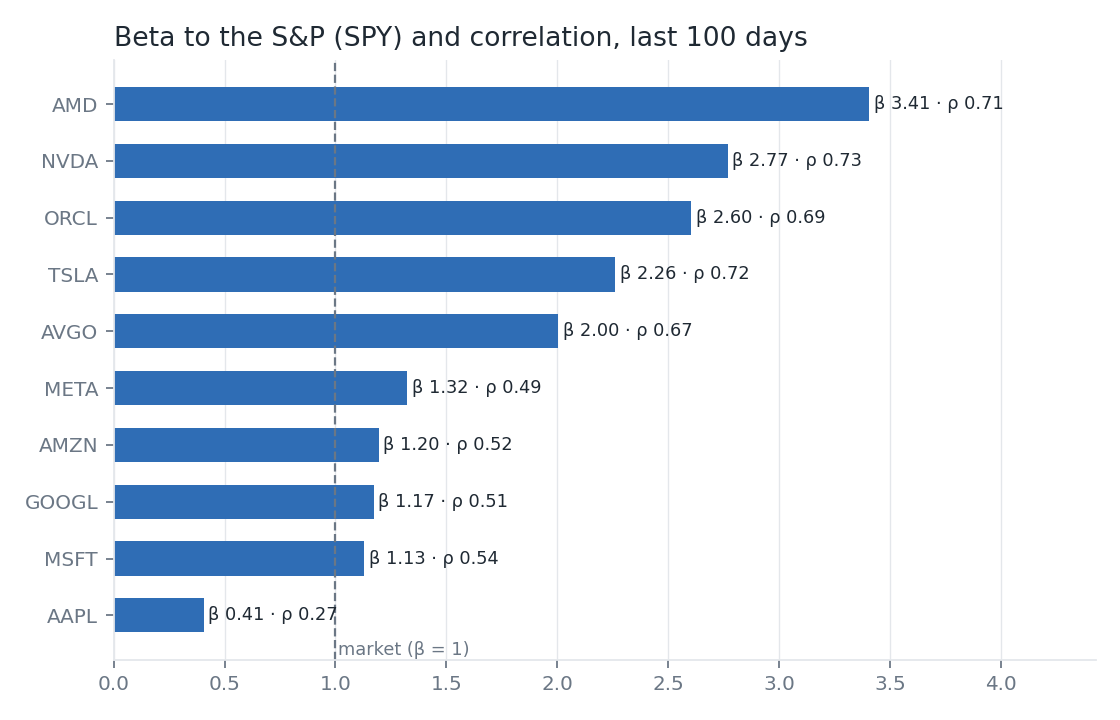
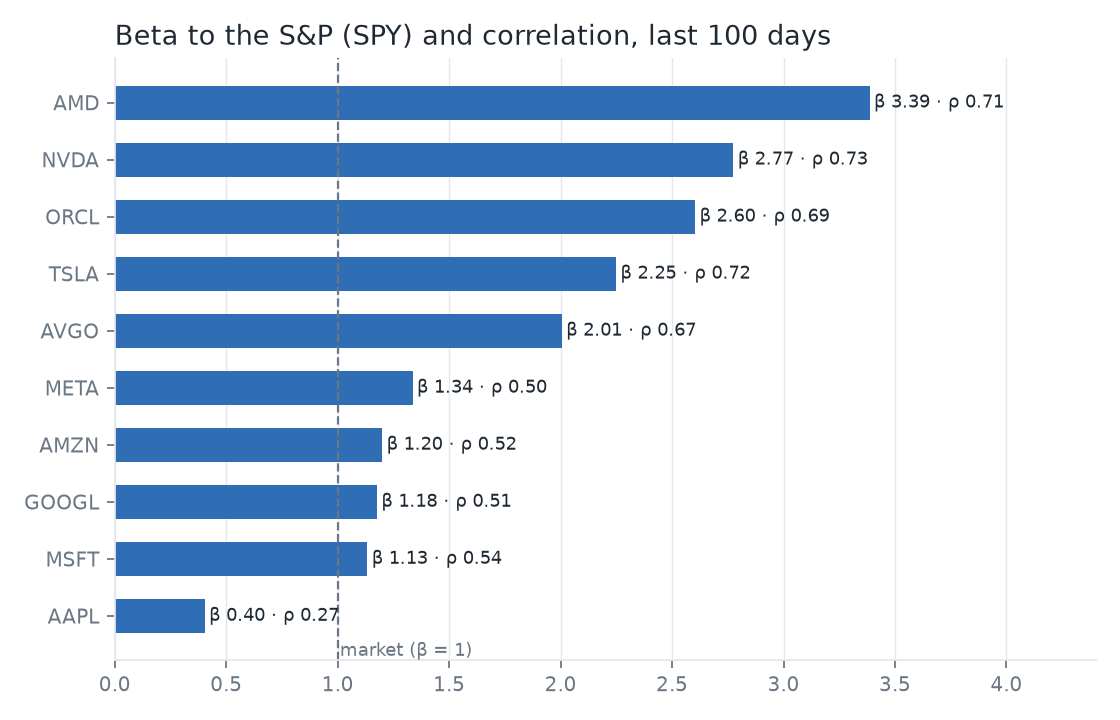
store results and ran 11/24's prediction

diff --git a/market_analysis.py b/market_analysis.py
@@ -45,10 +45,35 @@ ORANGE = "#d9822b"
 
 
 # ----------------------------------------------------------------------------- data
-def fetch_daily(symbol: str, key: str, cache_dir: Path) -> pd.Series:
-    """Latest 100 daily closes (raw, as traded). Cached per symbol per day."""
+def migrate_cache_layout(cache_dir: Path) -> None:
+    """Move legacy SYMBOL_YYYY-MM-DD.json files into date folders."""
     cache_dir.mkdir(parents=True, exist_ok=True)
-    cache = cache_dir / f"{symbol}_{dt.date.today().isoformat()}.json"
+    for legacy in cache_dir.glob("*_*.json"):
+        symbol, separator, collection_date = legacy.stem.rpartition("_")
+        if not separator or not symbol or not collection_date:
+            continue
+        try:
+            dt.date.fromisoformat(collection_date)
+        except ValueError:
+            continue
+        date_dir = cache_dir / collection_date
+        date_dir.mkdir(parents=True, exist_ok=True)
+        legacy.replace(date_dir / f"{symbol}.json")
+
+
+def fetch_daily(symbol: str, key: str, cache_dir: Path) -> pd.Series:
+    """Latest 100 daily closes (raw, as traded). Cached by collection date."""
+    cache_dir.mkdir(parents=True, exist_ok=True)
+    collection_date = dt.date.today().isoformat()
+    date_dir = cache_dir / collection_date
+    date_dir.mkdir(parents=True, exist_ok=True)
+    cache = date_dir / f"{symbol}.json"
+
+    # Read legacy files while existing caches are migrated to date folders.
+    legacy_cache = cache_dir / f"{symbol}_{collection_date}.json"
+    if not cache.exists() and legacy_cache.exists():
+        legacy_cache.replace(cache)
+
     if cache.exists():
         data = json.loads(cache.read_text())
     else:
@@ -67,8 +92,10 @@ def fetch_daily(symbol: str, key: str, cache_dir: Path) -> pd.Series:
         if "Time Series (Daily)" not in data:
             msg = data.get("Error Message") or data.get("Note") or data.get("Information") or str(data)[:200]
             raise RuntimeError(f"{symbol}: {msg}")
-        cache.write_text(json.dumps(data))
+        data["Time Series (Daily)"] = dict(sorted(data["Time Series (Daily)"].items(), reverse=True))
+        cache.write_text(json.dumps(data, indent=2))
     ts = data["Time Series (Daily)"]
+    ts = dict(sorted(ts.items(), reverse=True))
     s = pd.Series({pd.Timestamp(d): float(v["4. close"]) for d, v in ts.items()}).sort_index()
     return s.rename(symbol)
 
@@ -155,6 +182,99 @@ def score(res: pd.DataFrame) -> dict:
         "binom_p_vs_coinflip": binomtest(hits, n, 0.5).pvalue,
         "corr_pred_vs_actual": float(res["predicted"].corr(res["actual"])),
     }
+
+
+def next_trading_day(date: dt.date) -> dt.date:
+    target = date + dt.timedelta(days=1)
+    while target.weekday() >= 5:
+        target += dt.timedelta(days=1)
+    return target
+
+
+def find_spy_actual(cache_dir: Path, target_date: dt.date) -> tuple[float | None, float | None, float | None]:
+    closes = {}
+    for cache in cache_dir.rglob("SPY.json"):
+        try:
+            data = json.loads(cache.read_text())
+            for date_text, values in data.get("Time Series (Daily)", {}).items():
+                closes[pd.Timestamp(date_text)] = float(values["4. close"])
+        except (json.JSONDecodeError, KeyError, TypeError, ValueError):
+            continue
+    prior_date = target_date - dt.timedelta(days=1)
+    while prior_date.weekday() >= 5:
+        prior_date -= dt.timedelta(days=1)
+    target = pd.Timestamp(target_date)
+    prior = pd.Timestamp(prior_date)
+    if target not in closes or prior not in closes:
+        return None, None, None
+    actual_pct = (closes[target] / closes[prior] - 1) * 100
+    return closes[prior], closes[target], actual_pct
+
+
+def save_forecast_history(
+    out: Path,
+    prices: pd.DataFrame,
+    next_pred: float,
+    alpha: float,
+    sc: dict,
+    synthetic: bool,
+) -> None:
+    """Append or replace today's model forecast and update target-day results."""
+    path = out / "forecast_history.csv"
+    data_through = prices.index[-1].date()
+    target_date = next_trading_day(data_through)
+    prior_close, target_close, actual_pct = find_spy_actual(out / "cache", target_date)
+    forecast_pct = next_pred * 100
+    row = {
+        "run_date": dt.date.today().isoformat(),
+        "run_mode": "synthetic" if synthetic else "real",
+        "data_through_date": data_through.isoformat(),
+        "forecast_for_date": target_date.isoformat(),
+        "next_day_forecast_pct": forecast_pct,
+        "forecast_direction": "rise" if forecast_pct > 0 else "fall",
+        "actual_return_pct": actual_pct,
+        "actual_direction": "rise" if actual_pct is not None and actual_pct > 0
+                           else "fall" if actual_pct is not None else "pending",
+        "direction_correct": "pending" if actual_pct is None
+                             else actual_pct * forecast_pct > 0,
+        "prior_close": prior_close,
+        "target_close": target_close,
+        "ridge_alpha": alpha,
+        "test_days": sc["test_days"],
+        "rmse_model": sc["rmse_model"],
+        "rmse_baseline": sc["rmse_baseline"],
+        "directional_accuracy": sc["directional_accuracy"],
+        "binom_p_vs_coinflip": sc["binom_p_vs_coinflip"],
+        "corr_pred_vs_actual": sc["corr_pred_vs_actual"],
+    }
+    if path.exists():
+        history = pd.read_csv(path)
+        history = history[~((history["run_date"].astype(str) == row["run_date"]) &
+                            (history["run_mode"].astype(str) == row["run_mode"]))]
+        history = pd.concat([history, pd.DataFrame([row])], ignore_index=True)
+    else:
+        history = pd.DataFrame([row])
+
+    if "forecast_for_date" not in history.columns:
+        history["forecast_for_date"] = pd.NA
+    for i, recorded in history.iterrows():
+        target_text = recorded["forecast_for_date"]
+        if pd.isna(target_text):
+            continue
+        prior_close, target_close, actual_pct = find_spy_actual(
+            out / "cache", dt.date.fromisoformat(str(target_text))
+        )
+        if actual_pct is None:
+            continue
+        forecast_pct = float(recorded["next_day_forecast_pct"])
+        history.at[i, "actual_return_pct"] = actual_pct
+        history.at[i, "actual_direction"] = "rise" if actual_pct > 0 else "fall"
+        history.at[i, "direction_correct"] = actual_pct * forecast_pct > 0
+        history.at[i, "prior_close"] = prior_close
+        history.at[i, "target_close"] = target_close
+
+    history = history.sort_values(["run_date", "run_mode"])
+    history.to_csv(path, index=False, float_format="%.6f")
 
 
 # ----------------------------------------------------------------------------- charts
@@ -244,6 +364,7 @@ def main():
         if not key:
             sys.exit("Set ALPHAVANTAGE_API_KEY (free key: https://www.alphavantage.co/support/#api-key)")
         print("Fetching daily bars from Alpha Vantage...")
+        migrate_cache_layout(out / "cache")
         prices = load_prices(symbols, key, args.sleep, out / "cache")
 
     rets = np.log(prices).diff().dropna()
@@ -260,13 +381,16 @@ def main():
     res, next_pred, coefs, alpha = walk_forward(rets)
     res.to_csv(out / "predictions.csv")
     sc = score(res)
+    save_forecast_history(out, prices, next_pred, alpha, sc, args.synthetic)
     print(f"\nWalk-forward SPY next-day prediction (ridge alpha={alpha:.1f}, {sc['test_days']} out-of-sample days):")
     for k, v in sc.items():
         print(f"  {k:24s} {v:.4f}" if isinstance(v, float) else f"  {k:24s} {v}")
     verdict = "beats" if sc["rmse_model"] < sc["rmse_baseline"] else "does NOT beat"
     print(f"  -> model {verdict} the 'predict the average' baseline on RMSE.")
     print(f"\nLargest ridge coefficients (per 1.00 of daily log return):\n{coefs.head(5).round(4).to_string()}")
-    print(f"\nModel's forecast for SPY's next trading day: {next_pred * 100:+.3f}% "
+    forecast_date = next_trading_day(prices.index[-1].date())
+    print(f"\nData through {prices.index[-1].date()}, forecast for SPY on "
+          f"{forecast_date}: {next_pred * 100:+.3f}% "
           "(treat as a sanity-check output, not a trading signal)")
 
     chart_heatmap(corr, out / "correlation_heatmap.png")

diff --git a/README.md b/README.md
@@ -1,0 +1,109 @@
+# Market Data Analysis
+
+This Python project downloads recent daily stock prices for 10 large-cap stocks and compares them with the SPY S&P 500 proxy. It calculates correlations, betas, annualized volatility, and walk-forward ridge-regression predictions for the next-day SPY return.
+
+> The forecast is a pipeline sanity check, not an investment or trading signal.
+
+## What it creates
+
+The script writes these files to `output/`:
+
+- `summary.csv` - correlation, beta, R-squared, volatility, and return metrics
+- `correlation_matrix.csv` - correlations among all symbols
+- `predictions.csv` - walk-forward predicted and actual SPY returns
+- `forecast_history.csv` - dated model forecasts and scoring metrics from each run
+- `correlation_heatmap.png` - correlation heatmap
+- `beta_vs_spy.png` - stock beta and correlation chart
+- `prediction_vs_actual.png` - out-of-sample prediction chart
+- `cache/<collection-date>/` - Alpha Vantage responses grouped by collection date
+
+## Requirements
+
+- Python 3
+- NumPy
+- pandas
+- Matplotlib
+- requests
+- SciPy
+- scikit-learn
+
+An existing virtual environment is included at `.venv/`.
+
+## Setup
+
+From the repository root:
+
+```bash
+python3 -m venv .venv
+source .venv/bin/activate
+python -m pip install numpy pandas matplotlib requests scipy scikit-learn
+```
+
+If `.venv/` already exists, activate it and skip installation unless a package is missing:
+
+```bash
+source .venv/bin/activate
+```
+
+On macOS/Linux, command-line activation uses `source`. If you close or open a new terminal, activate the environment again.
+
+## Run an offline test
+
+Synthetic mode does not use the internet or an API key:
+
+```bash
+python market_analysis.py --synthetic
+```
+
+This is useful for confirming that the pipeline and charts work. The generated values are artificial.
+
+## Run with real market data
+
+1. Create a free Alpha Vantage API key at https://www.alphavantage.co/support/#api-key.
+2. Set the key in your terminal:
+
+```bash
+export ALPHAVANTAGE_API_KEY="your_api_key"
+```
+
+3. Run the script:
+
+```bash
+python market_analysis.py
+```
+
+Alpha Vantage free-tier requests are rate-limited. The default run waits 15 seconds between calls, and successful responses are cached for the current day in `output/cache/`.
+
+## Customize the symbols
+
+Pass a comma-separated list with `--symbols`:
+
+```bash
+python market_analysis.py --symbols NVDA,MSFT,AAPL,AMZN,GOOGL,META,AVGO,TSLA,AMD,ORCL
+python market_analysis.py --synthetic --symbols NVDA,MSFT,AAPL
+```
+
+SPY is always added automatically as the benchmark.
+
+## Other options
+
+```bash
+python market_analysis.py --out results
+python market_analysis.py --sleep 20
+python market_analysis.py --help
+```
+
+- `--out` changes the output directory. It defaults to `output`.
+- `--sleep` changes the delay in seconds between real-data API calls.
+- `--synthetic` uses generated prices instead of Alpha Vantage.
+- `--symbols` changes the analyzed stock list.
+
+## Example workflow
+
+```bash
+cd /Users/annalu/Documents/GitHub/data-analyzer
+source .venv/bin/activate
+python market_analysis.py --synthetic
+```
+
+Then open the generated PNG files in `output/` and inspect the CSV files with a spreadsheet or Python.
